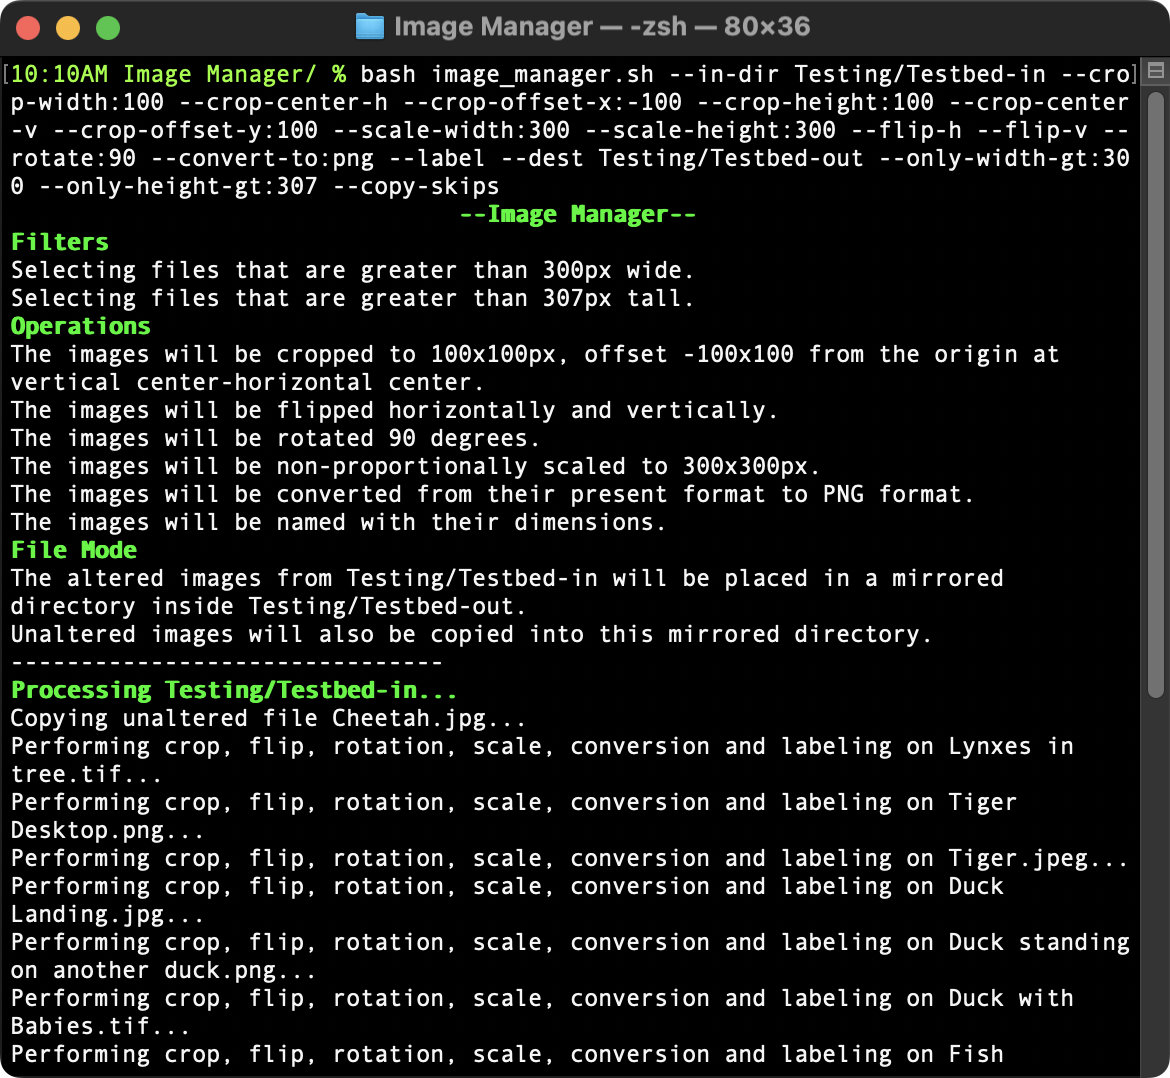
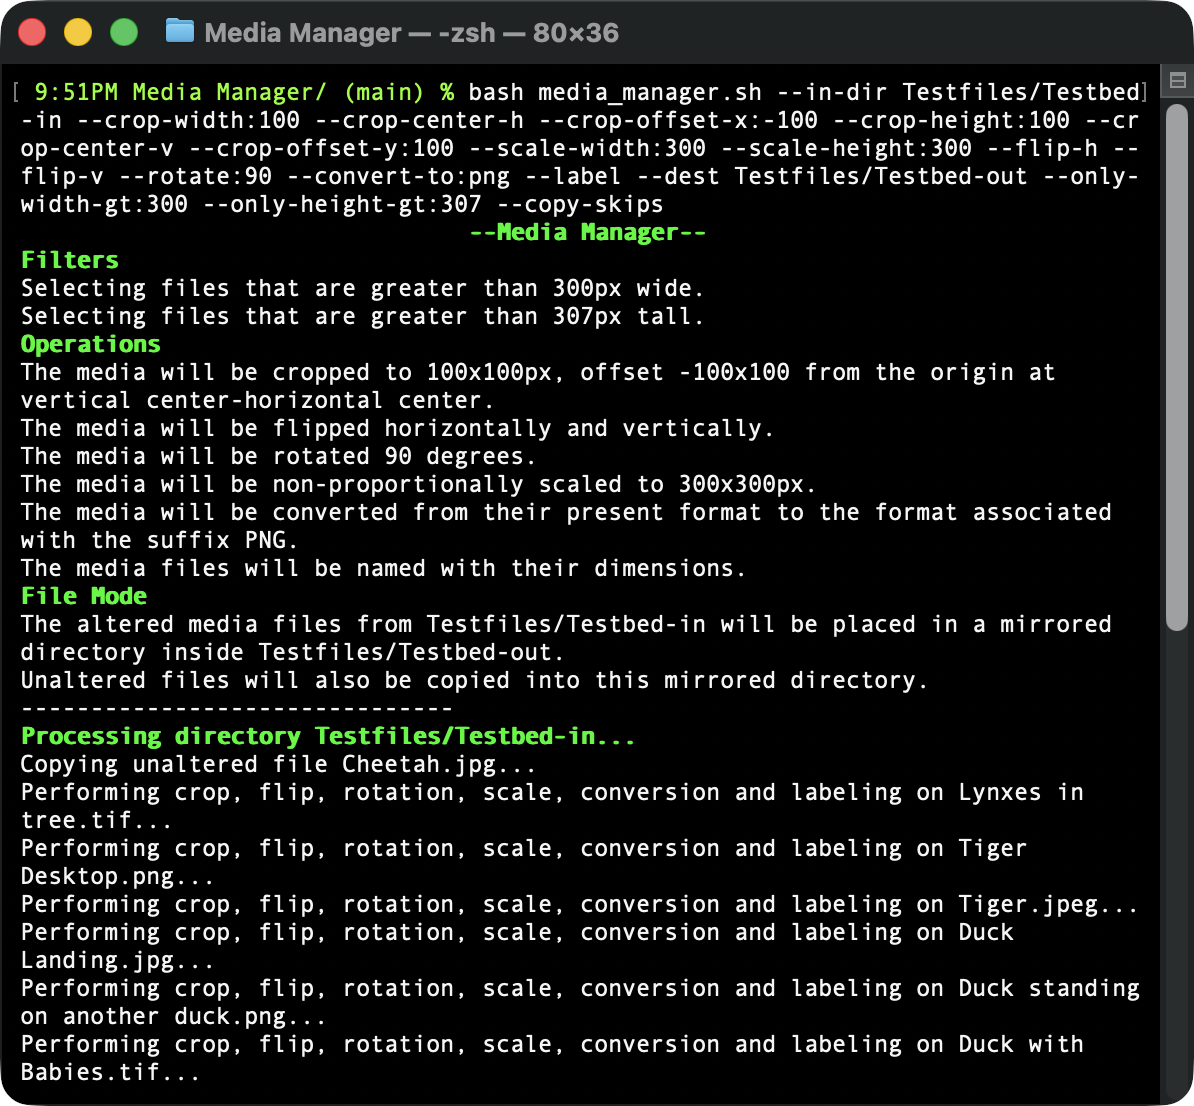
Renamed script in anticipation of uploading new version. Updated README and preview.

Changed region(s): [[0.0, 0.0, 1.0, 1.0]]

diff --git a/README.md b/README.md
@@ -1,17 +1,20 @@
-# Image Manager
-This script allows you to search a directory for images by certain criteria, then perform various operations on them. You can replace the original images with your changed versions, save the altered versions beside the originals or place them in a mirrored directory. This script requires ImageMagick to run.
+# Media Manager
+This script allows you to search a directory for images and movie files by certain criteria, then perform various operations on them. You can replace the original media with your changed versions, save the altered versions beside the originals or place them in a mirrored directory. This script requires ImageMagick to operate on images and FFmpeg to operate on videos.
 
-The full documentation for the script, including additional nuances of the options below, can be seen by running Image Manager without any arguments. Here are the criteria by which you can filter images:
+The full documentation for the script, including additional nuances of the options below, can be seen by running Media Manager without any arguments. Here are the criteria by which you can filter media:
+- File name or suffix.
+- Type (image or movie).
 - Width/height (less than, equal to or greater than).
-- File suffix.
 - Aspect ratio (landscape, portrait, square or a precise ratio like 16:9).
 
-Here are the operations you can currently perform on the images which meet your criteria:
-- Append the dimensions of the image to its file name.
-- Crop the image to a certain width and/or height.
-- Resize the image to a certain percentage, width and/or height.
-- Flip the image horizontally and/or vertically.
-- Rotate the image any number of degrees.
-- Convert the image to another format.
+Here are the operations you can currently perform on the media which meet your criteria:
+- Append the dimensions of the media to its file name.
+- Crop the media to a certain width and/or height.
+- Resize the media to a relative percentage or an absolute width/height.
+- Flip the media horizontally and/or vertically.
+- Rotate the media any number of degrees.
+- Trim movies between start and end times.
+- Speed up/slow down movies.
+- Convert the media to another format.
 
-![Preview](https://github.com/Amethyst-Software/image-manager/blob/main/preview.png)
+![Preview](https://github.com/Amethyst-Software/media-manager/blob/main/preview.png)
